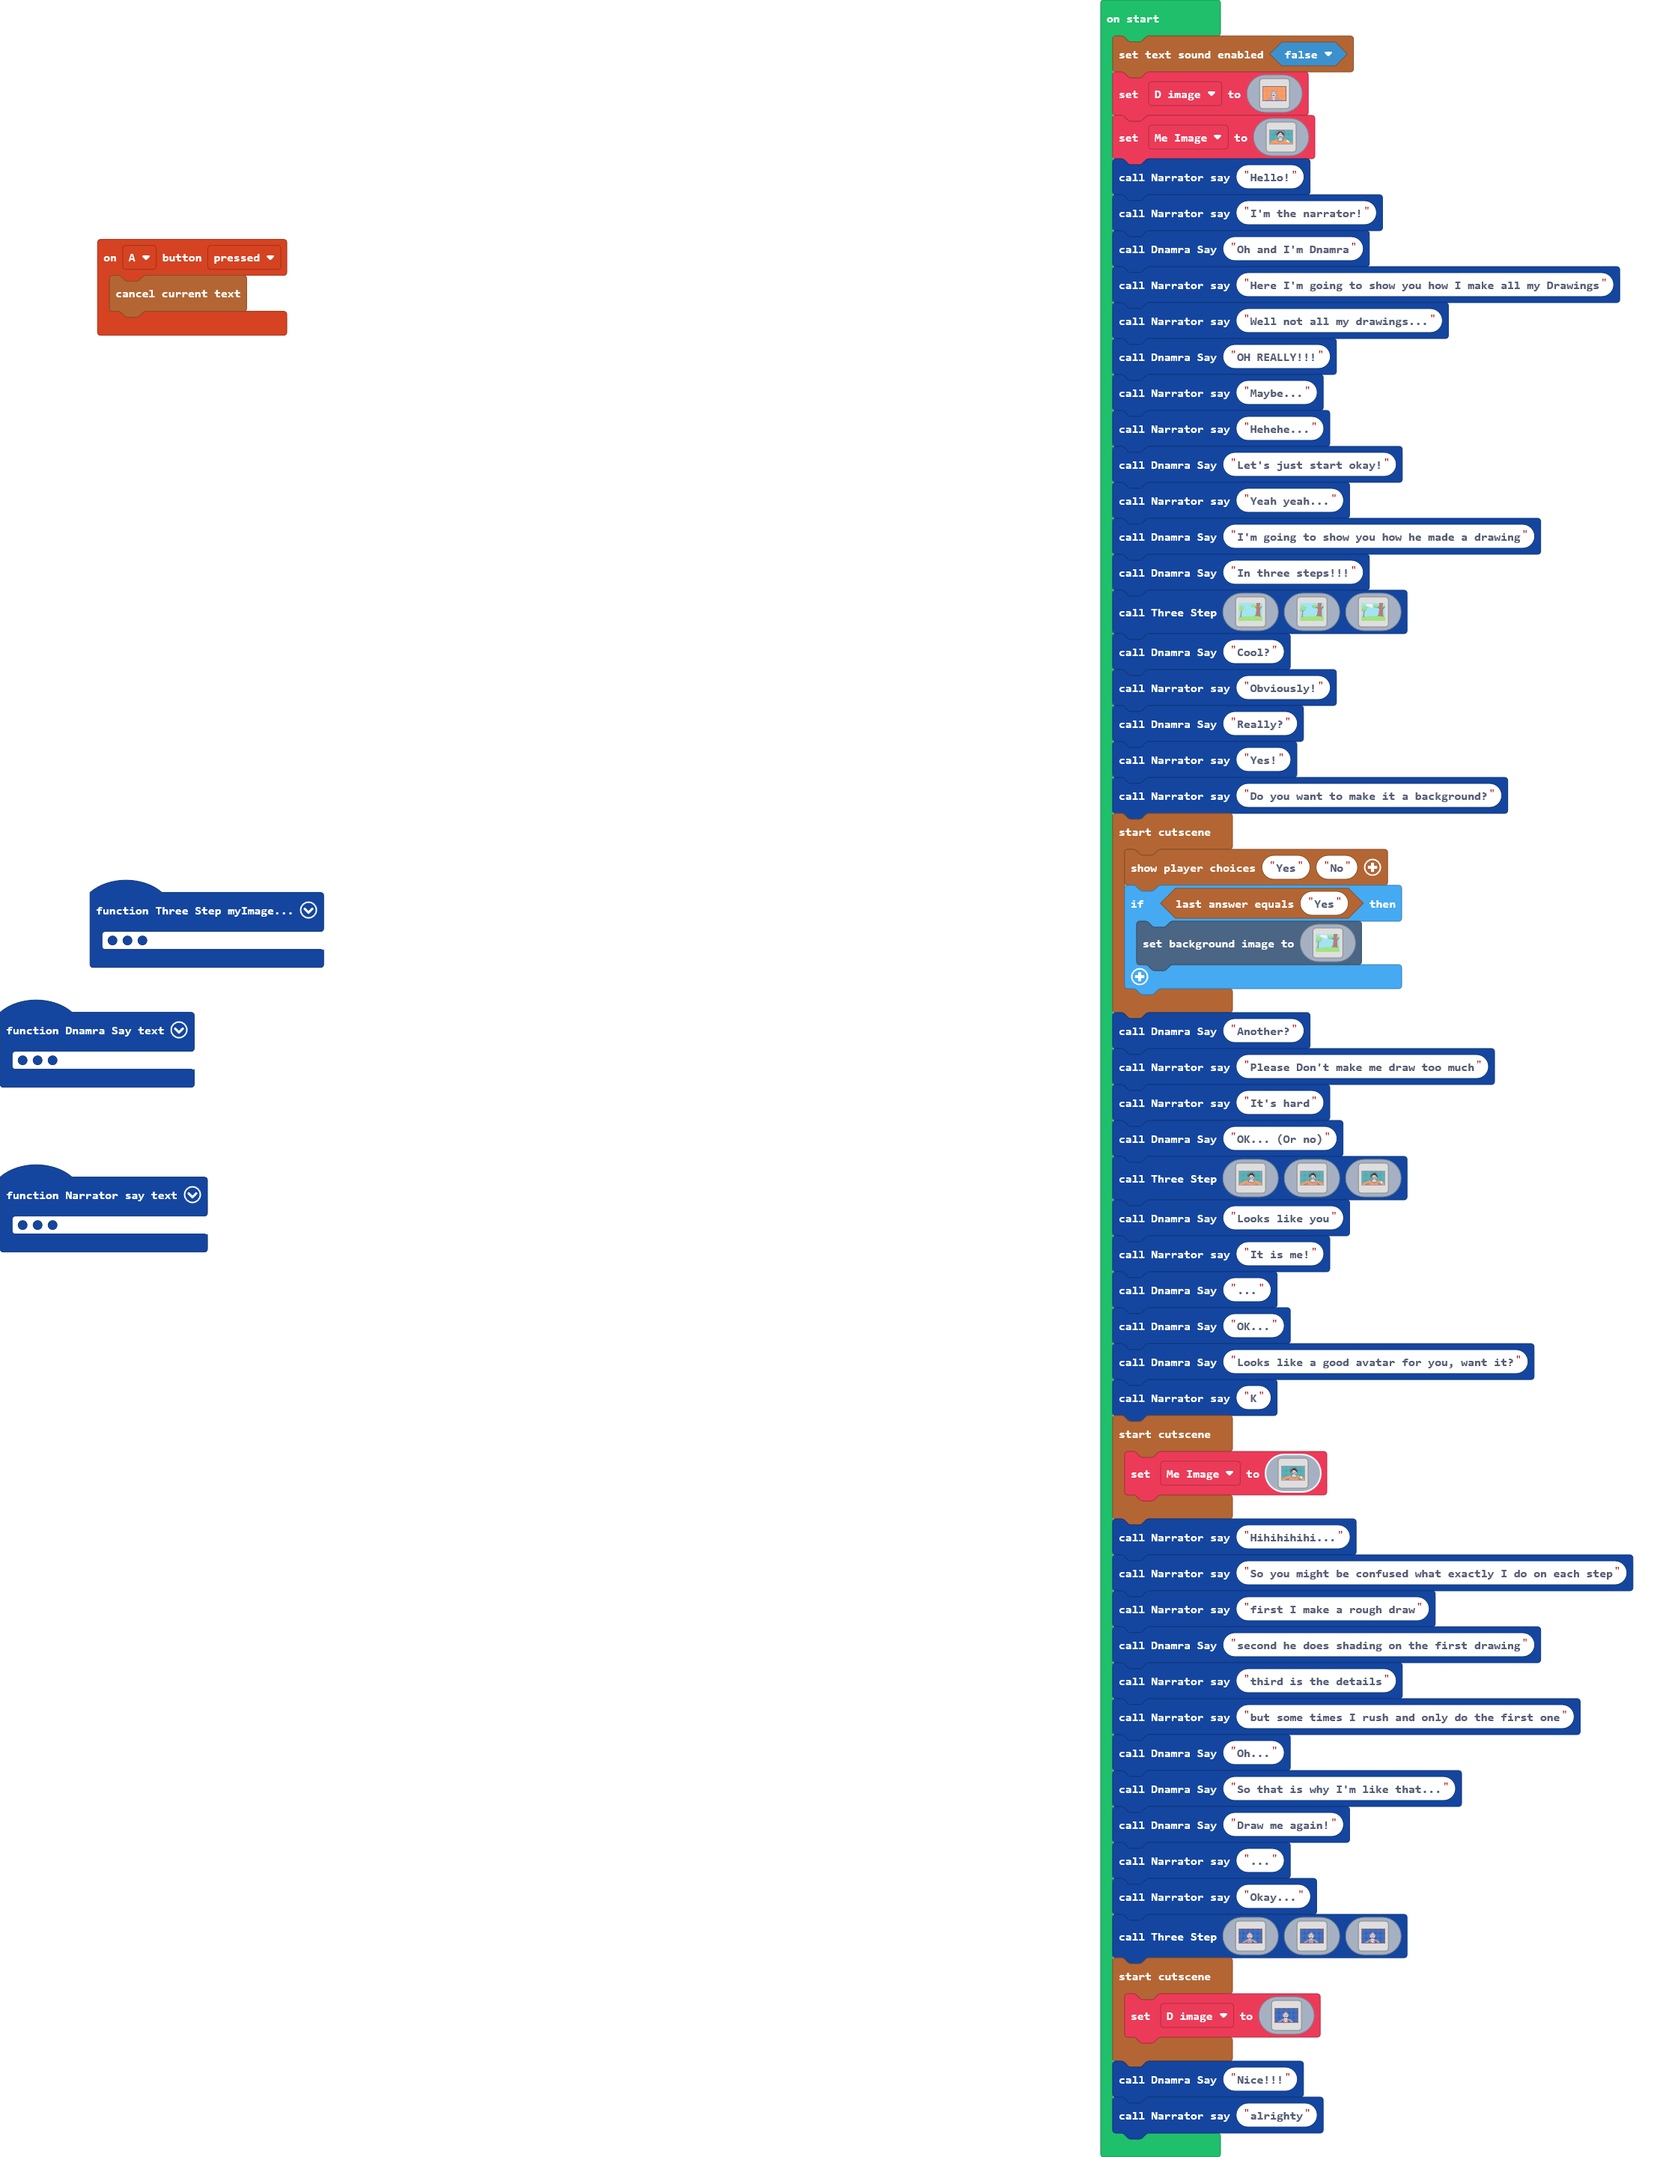
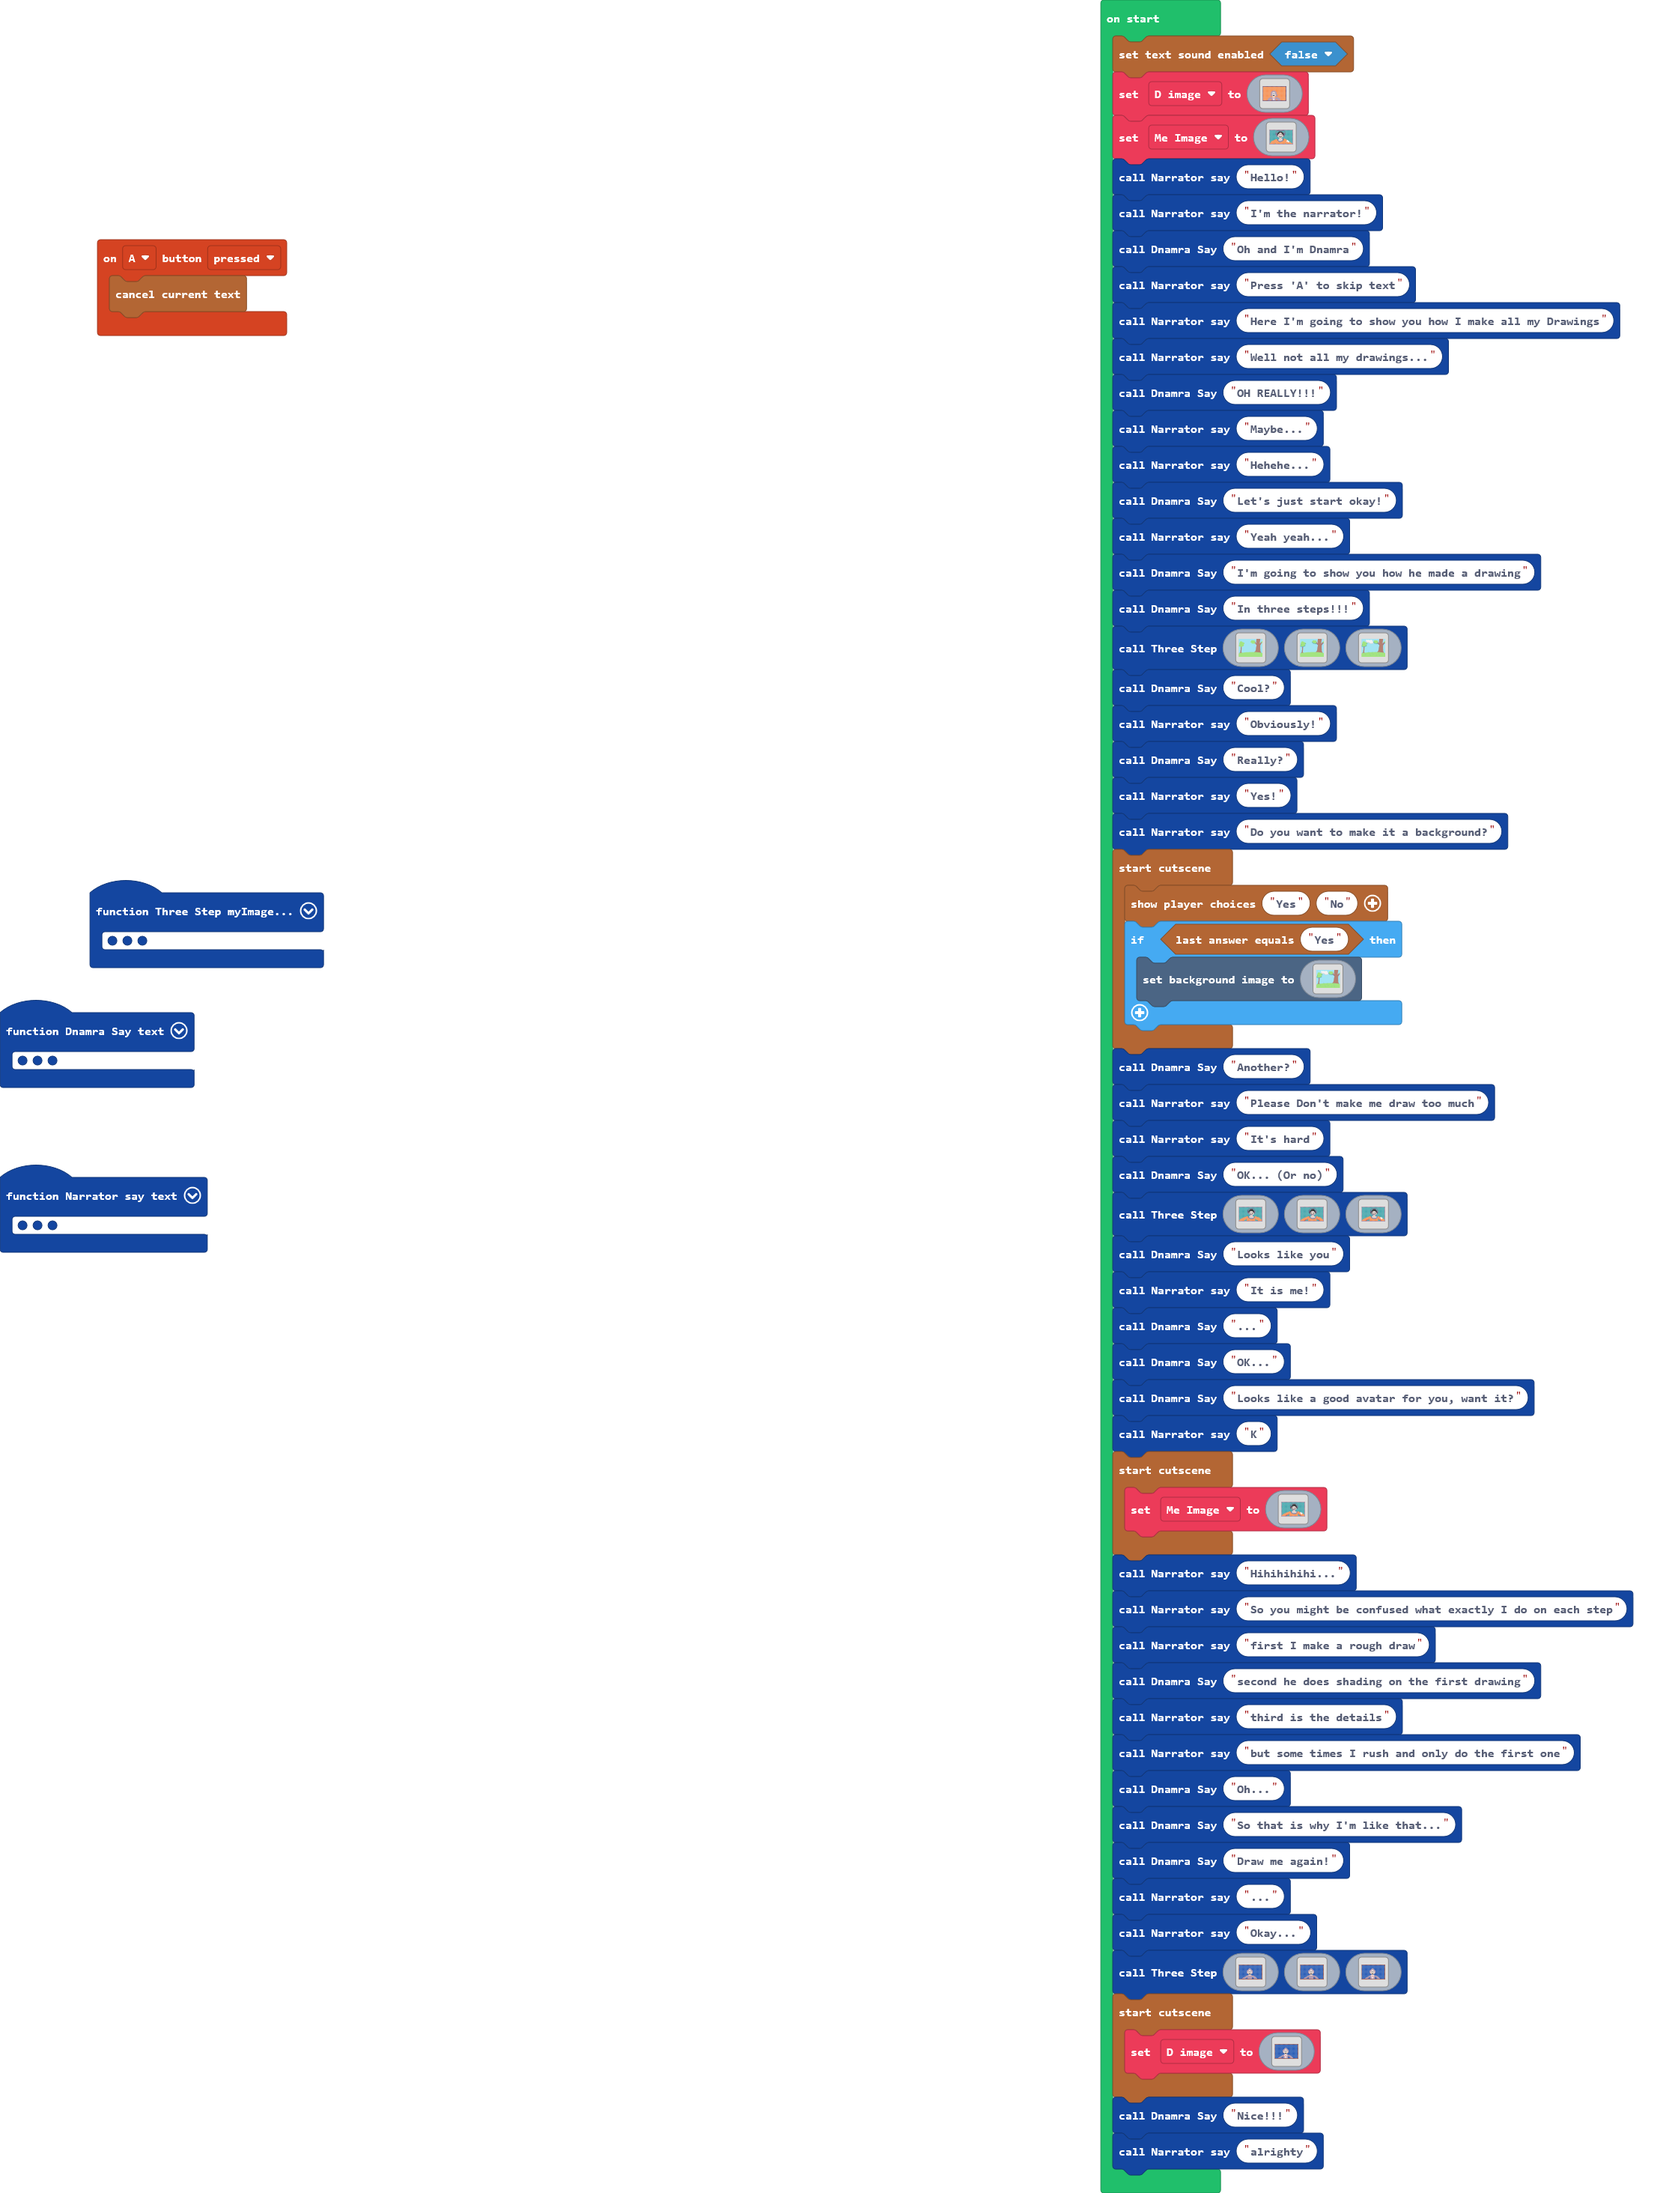
Update main.blocks, main.ts

Changed region(s): [[0.6489, 0.0, 0.9888, 1.0], [0.0, 0.375, 0.2163, 0.5938], [0.0618, 0.0938, 0.1854, 0.1562]]

diff --git a/main.ts b/main.ts
@@ -88,6 +88,7 @@ Me_Image = img`
 Narrator_say("Hello!")
 Narrator_say("I'm the narrator!")
 Dnamra_Say("Oh and I'm Dnamra")
+Narrator_say("Press 'A' to skip text")
 Narrator_say("Here I'm going to show you how I make all my Drawings")
 Narrator_say("Well not all my drawings...")
 Dnamra_Say("OH REALLY!!!")
